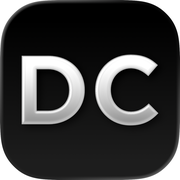
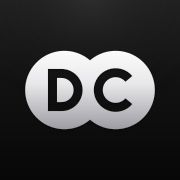
Wordmark: the DC hallmark beside the name
The header and footer lockups set the gold hallmark (DC struck through a
two-lobed punch, as on the new app icon) beside "Daily Canvas" in one
colour, replacing the app-icon image and the gold "Canvas". Favicon and
touch icons regenerated from the new icon.

diff --git a/index.html b/index.html
@@ -61,8 +61,9 @@
             border-bottom: 1px solid var(--border);
         }
 
-        /* Wordmark: the app's own mark (the DC icon) beside the name set in the app's
-           display serif — the same pairing as the App Store listing and the Mac menu bar. */
+        /* Wordmark: the Daily Canvas hallmark (the DC struck through a two-lobed punch,
+           as on the app icon) in gold, beside the name in one colour. The punch stands
+           1.3 capitals tall, like the other Peninsular hallmarks' lockups. */
         .nav-logo {
             display: inline-flex;
             align-items: center;
@@ -77,16 +78,11 @@
             flex-shrink: 0;
         }
 
-        .nav-logo em {
-            font-style: normal;
-            color: var(--gold);
-        }
-
         .logo-mark {
-            width: 28px;
-            height: 28px;
-            border-radius: 7px;
-            box-shadow: 0 0 0 1px rgba(255, 255, 255, 0.10), 0 2px 8px rgba(0, 0, 0, 0.5);
+            height: 21px;
+            width: auto;
+            aspect-ratio: 43 / 26;
+            fill: var(--gold);
             flex-shrink: 0;
         }
 
@@ -874,9 +870,7 @@
             white-space: nowrap;
         }
 
-        .footer-logo .logo-mark { width: 24px; height: 24px; border-radius: 6px; }
-
-        .footer-logo em { font-style: normal; color: var(--gold); }
+        .footer-logo .logo-mark { height: 19px; }
 
         .footer-links {
             display: flex;
@@ -951,7 +945,7 @@
 
 <!-- ─── NAV ─────────────────────────────────────────────────────── -->
 <nav id="nav">
-    <a href="/" class="nav-logo"><img class="logo-mark" src="images/app-icon-64.png" alt="" width="28" height="28">Daily <em>Canvas</em></a>
+    <a href="/" class="nav-logo"><svg class="logo-mark" viewBox="0 0 43 26" aria-hidden="true"><path fill-rule="evenodd" d="M21.5 3.164A13 13 0 1 1 21.5 22.836A13 13 0 1 1 21.5 3.164ZM7.55 6H12.05A7 7 0 0 1 12.05 20H7.55ZM10.55 9V17H12.05A4 4 0 0 0 12.05 9ZM35.554 8.34A7.25 7.25 0 1 0 35.554 17.66L33.256 15.732A4.25 4.25 0 1 1 33.256 10.268Z"/></svg>Daily Canvas</a>
     <div class="nav-right">
         <div class="nav-links">
             <a href="#features">Features</a>
@@ -1367,7 +1361,7 @@
 <!-- ─── FOOTER ────────────────────────────────────────────────────── -->
 <footer>
     <div class="footer-inner">
-        <a href="/" class="footer-logo"><img class="logo-mark" src="images/app-icon-64.png" alt="" width="24" height="24">Daily <em>Canvas</em></a>
+        <a href="/" class="footer-logo"><svg class="logo-mark" viewBox="0 0 43 26" aria-hidden="true"><path fill-rule="evenodd" d="M21.5 3.164A13 13 0 1 1 21.5 22.836A13 13 0 1 1 21.5 3.164ZM7.55 6H12.05A7 7 0 0 1 12.05 20H7.55ZM10.55 9V17H12.05A4 4 0 0 0 12.05 9ZM35.554 8.34A7.25 7.25 0 1 0 35.554 17.66L33.256 15.732A4.25 4.25 0 1 1 33.256 10.268Z"/></svg>Daily Canvas</a>
         <div class="footer-links">
             <a href="/privacy">Privacy</a>
             <a href="/terms">Terms</a>

diff --git a/privacy.html b/privacy.html
@@ -41,9 +41,8 @@
             color: var(--text-primary);
             text-decoration: none;
         }
-        .nav-logo em { font-style: normal; color: var(--gold); }
         .nav-logo { display: inline-flex; align-items: center; gap: 0.625rem; white-space: nowrap; }
-        .logo-mark { width: 28px; height: 28px; border-radius: 7px; box-shadow: 0 0 0 1px rgba(255,255,255,0.10), 0 2px 8px rgba(0,0,0,0.5); flex-shrink: 0; }
+        .logo-mark { height: 21px; width: auto; aspect-ratio: 43 / 26; fill: var(--gold); flex-shrink: 0; }
         .nav-back {
             font-size: 0.8125rem;
             color: var(--text-secondary);
@@ -140,7 +139,7 @@
 </head>
 <body>
 <nav>
-    <a href="/" class="nav-logo"><img class="logo-mark" src="images/app-icon-64.png" alt="" width="28" height="28">Daily <em>Canvas</em></a>
+    <a href="/" class="nav-logo"><svg class="logo-mark" viewBox="0 0 43 26" aria-hidden="true"><path fill-rule="evenodd" d="M21.5 3.164A13 13 0 1 1 21.5 22.836A13 13 0 1 1 21.5 3.164ZM7.55 6H12.05A7 7 0 0 1 12.05 20H7.55ZM10.55 9V17H12.05A4 4 0 0 0 12.05 9ZM35.554 8.34A7.25 7.25 0 1 0 35.554 17.66L33.256 15.732A4.25 4.25 0 1 1 33.256 10.268Z"/></svg>Daily Canvas</a>
     <a href="/" class="nav-back">← Back to site</a>
 </nav>
 

diff --git a/terms.html b/terms.html
@@ -41,9 +41,8 @@
             color: var(--text-primary);
             text-decoration: none;
         }
-        .nav-logo em { font-style: normal; color: var(--gold); }
         .nav-logo { display: inline-flex; align-items: center; gap: 0.625rem; white-space: nowrap; }
-        .logo-mark { width: 28px; height: 28px; border-radius: 7px; box-shadow: 0 0 0 1px rgba(255,255,255,0.10), 0 2px 8px rgba(0,0,0,0.5); flex-shrink: 0; }
+        .logo-mark { height: 21px; width: auto; aspect-ratio: 43 / 26; fill: var(--gold); flex-shrink: 0; }
         .nav-back {
             font-size: 0.8125rem;
             color: var(--text-secondary);
@@ -140,7 +139,7 @@
 </head>
 <body>
 <nav>
-    <a href="/" class="nav-logo"><img class="logo-mark" src="images/app-icon-64.png" alt="" width="28" height="28">Daily <em>Canvas</em></a>
+    <a href="/" class="nav-logo"><svg class="logo-mark" viewBox="0 0 43 26" aria-hidden="true"><path fill-rule="evenodd" d="M21.5 3.164A13 13 0 1 1 21.5 22.836A13 13 0 1 1 21.5 3.164ZM7.55 6H12.05A7 7 0 0 1 12.05 20H7.55ZM10.55 9V17H12.05A4 4 0 0 0 12.05 9ZM35.554 8.34A7.25 7.25 0 1 0 35.554 17.66L33.256 15.732A4.25 4.25 0 1 1 33.256 10.268Z"/></svg>Daily Canvas</a>
     <a href="/" class="nav-back">← Back to site</a>
 </nav>
 
